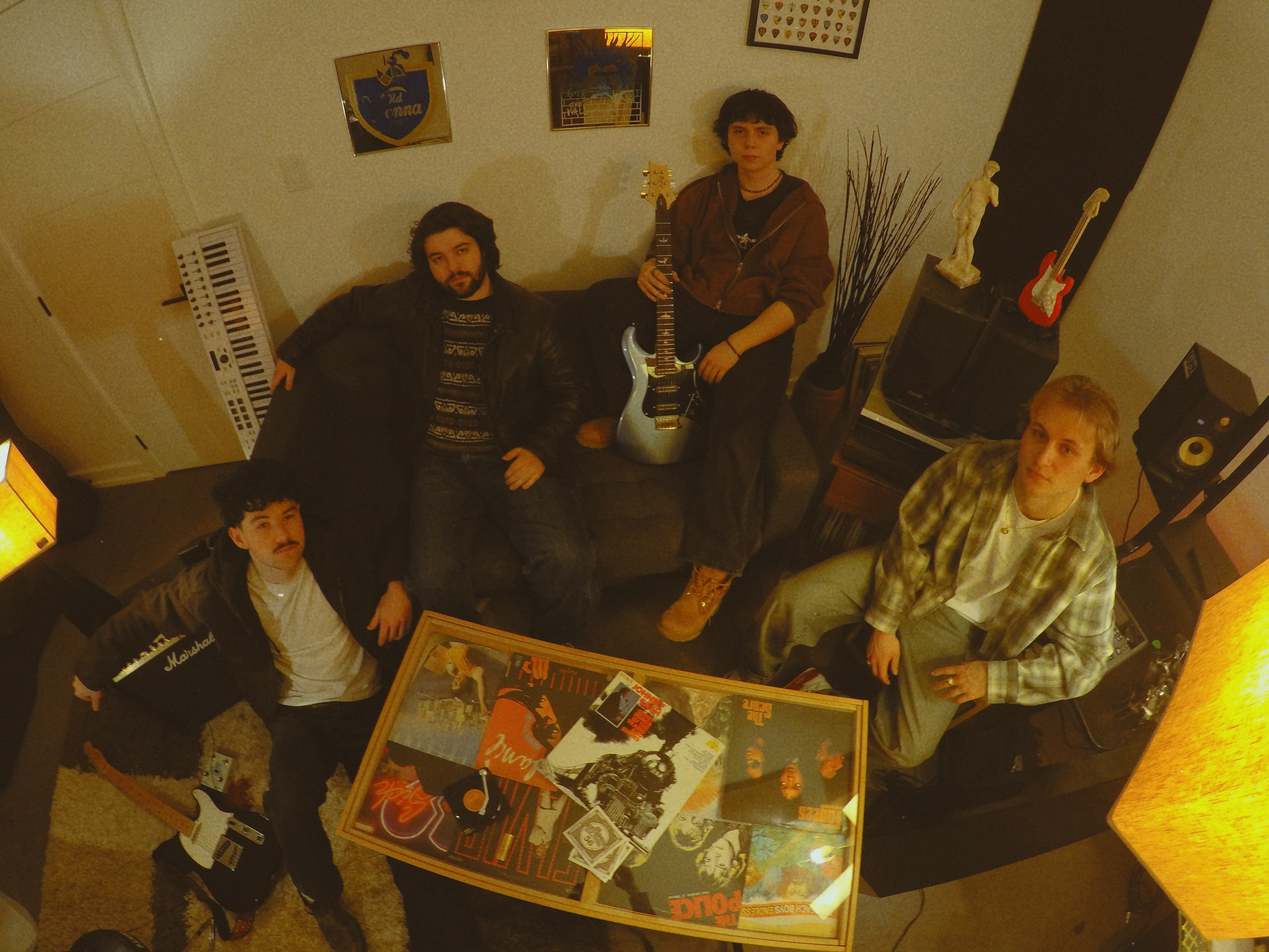
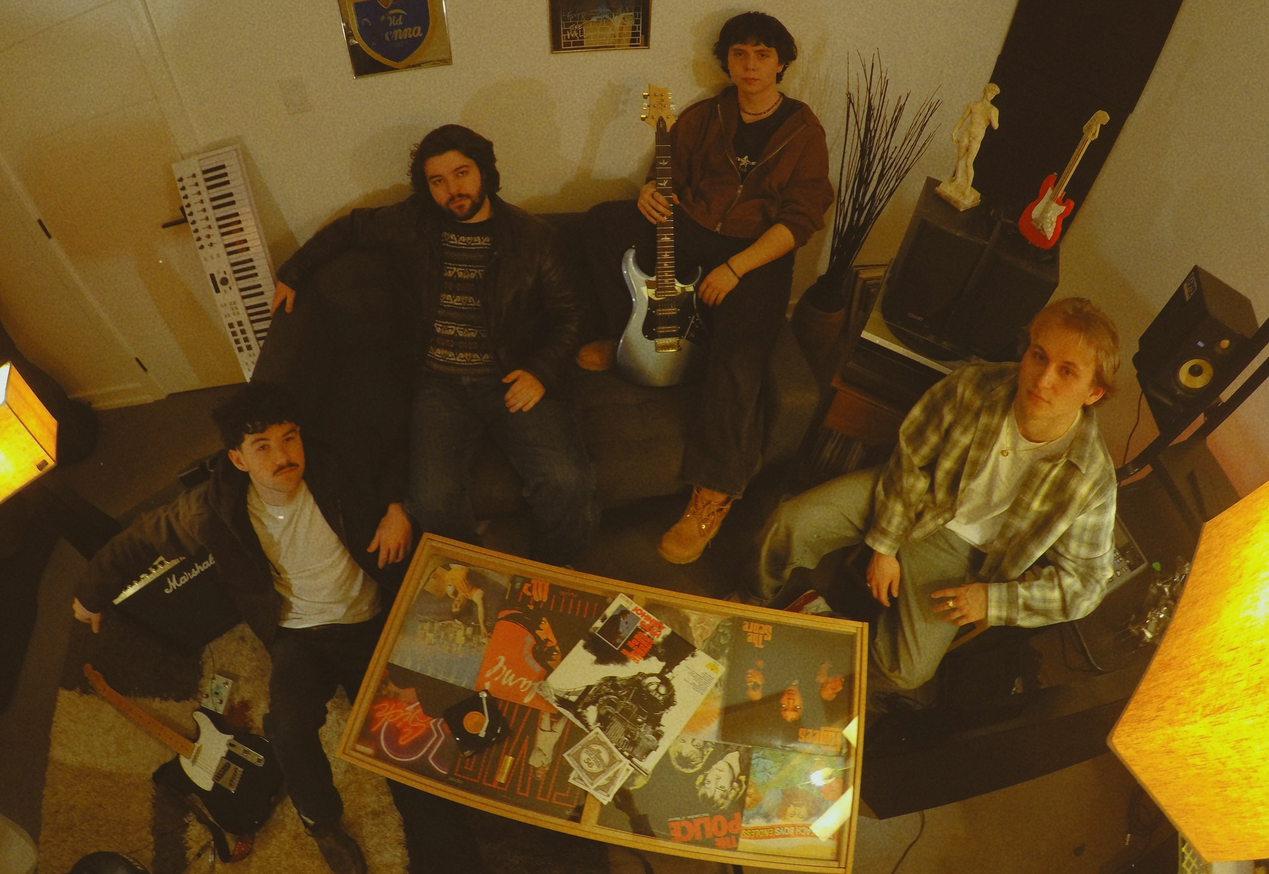
cropped background image and increased overlay size

diff --git a/app/page.tsx b/app/page.tsx
@@ -31,14 +31,14 @@ export default function HomePage() {
           fill
           priority
           sizes="100vw"
-          className="object-cover object-center"
+          className="object-cover object-top"
         />
         <div className="absolute inset-0 bg-black/30" aria-hidden="true" />
         <div className="absolute inset-0 z-10 flex flex-col items-center justify-center gap-4 px-6 text-center sm:gap-6">
           <img
             src="/sweetside_white.svg"
             alt={band.name}
-            className="w-44 max-w-[80vw] drop-shadow-2xl sm:w-60 md:w-80 lg:w-96"
+            className="w-56 max-w-[85vw] drop-shadow-2xl sm:w-72 md:w-[26rem] lg:w-[32rem]"
           />
           <div className="flex flex-wrap justify-center gap-4">
             {isSpotifyUrl(spotifyLink) ? (
